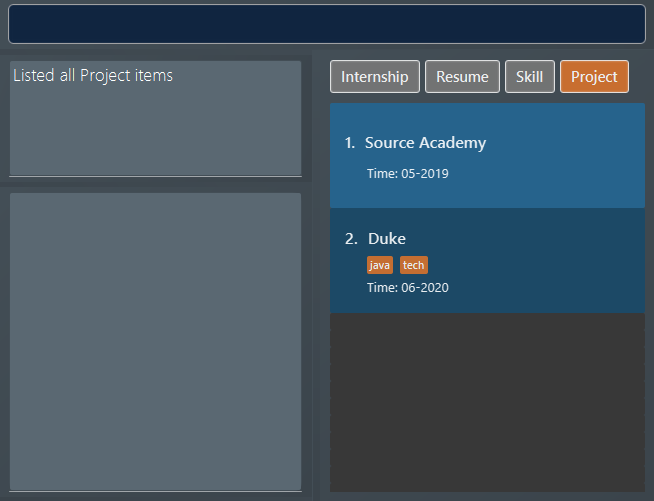
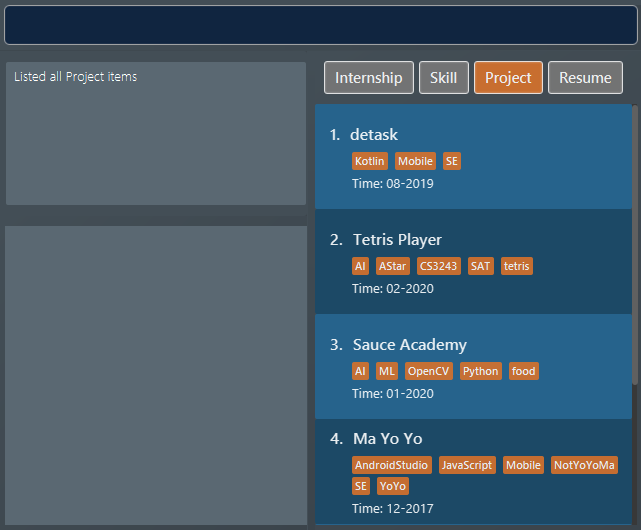
Rebuild pages at 7eada93f97175e81dc8780fcd634e7d2defcebf4

diff --git a/UserGuide.html b/UserGuide.html
@@ -748,7 +748,8 @@ These sentences, when exported to <code>.pdf</code> format, will be automaticall
 </tbody>
 </table>
 <div class="paragraph">
-<p><strong>Example 1:</strong> Try typing in the command box these two commands one by one!</p>
+<p><strong>Example 1:</strong>
+Try typing in the command box these two commands one by one!</p>
 </div>
 <div class="olist arabic">
 <ol class="arabic">
@@ -766,7 +767,7 @@ These sentences, when exported to <code>.pdf</code> format, will be automaticall
 <div class="olist arabic">
 <ol class="arabic">
 <li>
-<p>All <code>resume</code> items are listed in the list box.</p>
+<p>The first command lists all <code>resume</code> items in the list box. Assuming you want to edit the <code>resume</code> item at index 1.</p>
 <div class="imageblock">
 <div class="content">
 <img src="images/ListResume2.png" alt="ListResume2" width="790">
@@ -774,8 +775,7 @@ These sentences, when exported to <code>.pdf</code> format, will be automaticall
 </div>
 </li>
 <li>
-<p>The <code>resume</code> at index 1 has its name changed from <em>"Resume 2"</em> to <em>"Software Engineering Resume"</em> and its
-tag set to <em>"agile"</em>.</p>
+<p>The second command edits the <code>resume</code> item at index 1. It has its name changed from <em>"Winter 2019"</em> to <em>"Software Engineering Resume"</em> and its tag set to <em>"agile"</em>.</p>
 <div class="imageblock">
 <div class="content">
 <img src="images/EditResumeExample.png" alt="EditResumeExample" width="790">
@@ -803,10 +803,20 @@ tag set to <em>"agile"</em>.</p>
 <div class="olist arabic">
 <ol class="arabic">
 <li>
-<p>All <code>skill</code> items are listed in the list box.</p>
+<p>The first command lists all <code>skill</code> items in the list box. Assuming you want to edit the <code>skill</code> item at index 2.</p>
+<div class="imageblock">
+<div class="content">
+<img src="images/ListSkill1.png" alt="ListSkill1" width="790">
+</div>
+</div>
 </li>
 <li>
-<p>The <code>skill</code> at index 2 has its level changed to <code>ADVANCED</code> and all its existing tags cleared.</p>
+<p>The second command edits the <code>skill</code> item at index 2. It has its level changed to from <code>INTERMEDIATE</code> to <code>ADVANCED</code> and all its existing tags cleared.</p>
+<div class="imageblock">
+<div class="content">
+<img src="images/EditSkillExample.png" alt="EditSkillExample" width="790">
+</div>
+</div>
 </li>
 </ol>
 </div>
@@ -1172,7 +1182,7 @@ Certain details of specific items, for example the <code>website</code> and <cod
 <p><code>list i/ proj</code></p>
 </li>
 <li>
-<p><code>view 2 i/ proj</code></p>
+<p><code>view 1 i/ proj</code></p>
 </li>
 </ol>
 </div>
@@ -1182,7 +1192,7 @@ Certain details of specific items, for example the <code>website</code> and <cod
 <div class="olist arabic">
 <ol class="arabic">
 <li>
-<p>All <code>project</code> items are listed in the list box.</p>
+<p>The first command lists out all the <code>project</code> items in the list box. Assuming you want to view the details of the <code>project</code> item at index 1.</p>
 <div class="imageblock">
 <div class="content">
 <img src="images/ListProject2.png" alt="ListProject2" width="790">
@@ -1190,11 +1200,10 @@ Certain details of specific items, for example the <code>website</code> and <cod
 </div>
 </li>
 <li>
-<p>Full details of the <code>project</code> at index 2 are displayed in the view box. These includes details that were not shown
-in the list box, such as its website (<em>"abc.github.io"</em>) and its description (<em>"For a little module named CS2103T"</em>).</p>
+<p>The second command shows full details of the <code>project</code> at index 1, displayed in the view box. These includes details that were not shown in the list box, such as its website (<em>"github.com/zheng-code/detask"</em>) and its description (<em>"An all-in-one task managing app."</em>).</p>
 <div class="imageblock">
 <div class="content">
-<img src="images/ViewDukeProject.png" alt="ViewDukeProject" width="790">
+<img src="images/ViewDetaskProject.png" alt="ViewDetaskProject" width="790">
 </div>
 </div>
 </li>
@@ -2098,4 +2107,4 @@ file created with the data file of your <strong>ResuMe</strong> folder in the cu
 </table>
 </div>
 </div>
-</div></div><div id="footer"><div class="container"><div id="footer-text">Last updated 2020-04-13 08:34:06 UTC</div></div></div></body></html>
+</div></div><div id="footer"><div class="container"><div id="footer-text">Last updated 2020-04-13 09:11:43 UTC</div></div></div></body></html>

diff --git a/tutorials/RemovingFields.html b/tutorials/RemovingFields.html
@@ -175,4 +175,4 @@ While keeping the <code>address</code> field in the json files does not cause th
 <p>You can go through each individual <code>json</code> file and manually remove the <code>address</code> field.</p>
 </div>
 </div>
-</div></div><div id="footer"><div class="container"><div id="footer-text">Last updated 2020-04-13 08:34:06 UTC</div></div></div></body></html>
+</div></div><div id="footer"><div class="container"><div id="footer-text">Last updated 2020-04-13 09:11:43 UTC</div></div></div></body></html>

diff --git a/Testing.html b/Testing.html
@@ -90,4 +90,4 @@ e.g. <code>seedu.address.logic.LogicManagerTest</code></p>
 <div class="title">Figure 1. <code>Accessibility</code> permission is granted to <code>IntelliJ IDEA</code></div>
 </div>
 </div>
-</div></div><div id="footer"><div class="container"><div id="footer-text">Last updated 2020-04-13 08:34:06 UTC</div></div></div></body></html>
+</div></div><div id="footer"><div class="container"><div id="footer-text">Last updated 2020-04-13 09:11:43 UTC</div></div></div></body></html>

diff --git a/tutorials/AddRemark.html b/tutorials/AddRemark.html
@@ -616,4 +616,4 @@ In this case, <code>CommandTestUtil#assertCommandSuccess</code> is the best fit 
 <p>This concludes the tutorial for adding a new <code>Command</code> to AddressBook.</p>
 </div>
 </div>
-</div></div><div id="footer"><div class="container"><div id="footer-text">Last updated 2020-04-13 08:34:06 UTC</div></div></div></body></html>
+</div></div><div id="footer"><div class="container"><div id="footer-text">Last updated 2020-04-13 09:11:43 UTC</div></div></div></body></html>

diff --git a/team/johndoe.html b/team/johndoe.html
@@ -468,4 +468,4 @@ the old-versioned item to be stored as well so that it can be restored while <co
 <p><em>{Optionally, you may include other projects in your portfolio.}</em></p>
 </div>
 </div>
-</div></div><div id="footer"><div class="container"><div id="footer-text">Last updated 2020-04-13 08:34:06 UTC</div></div></div></body></html>
+</div></div><div id="footer"><div class="container"><div id="footer-text">Last updated 2020-04-13 09:11:43 UTC</div></div></div></body></html>

diff --git a/index.html b/index.html
@@ -56,4 +56,4 @@ in need of a clean and functional resume, whether for an internship or a job pos
 <div class="sectionbody">
 
 </div>
-</div></div><div id="footer"><div class="container"><div id="footer-text">Last updated 2020-04-13 08:34:06 UTC</div></div></div></body></html>
+</div></div><div id="footer"><div class="container"><div id="footer-text">Last updated 2020-04-13 09:11:43 UTC</div></div></div></body></html>

diff --git a/team/wardetu.html b/team/wardetu.html
@@ -380,4 +380,4 @@ Java. Once again, Java is removed from our life.</p>
 <p>include::../DeveloperGuide.adoc</p>
 </div>
 </div>
-</div></div><div id="footer"><div class="container"><div id="footer-text">Last updated 2020-04-13 08:34:06 UTC</div></div></div></body></html>
+</div></div><div id="footer"><div class="container"><div id="footer-text">Last updated 2020-04-13 09:11:43 UTC</div></div></div></body></html>

diff --git a/LearningOutcomes.html b/LearningOutcomes.html
@@ -474,4 +474,4 @@ of storages, but different number of storages (e.g. save to both a text file and
 </div>
 </div>
 </div>
-</div></div><div id="footer"><div class="container"><div id="footer-text">Last updated 2020-04-13 08:34:06 UTC</div></div></div></body></html>
+</div></div><div id="footer"><div class="container"><div id="footer-text">Last updated 2020-04-13 09:11:43 UTC</div></div></div></body></html>

diff --git a/SettingUp.html b/SettingUp.html
@@ -180,4 +180,4 @@ Having both Travis and AppVeyor ensures your App works on both Unix-based platfo
 </div>
 </div>
 </div>
-</div></div><div id="footer"><div class="container"><div id="footer-text">Last updated 2020-04-13 08:34:06 UTC</div></div></div></body></html>
+</div></div><div id="footer"><div class="container"><div id="footer-text">Last updated 2020-04-13 09:11:43 UTC</div></div></div></body></html>

diff --git a/team/chrisjwelly.html b/team/chrisjwelly.html
@@ -841,4 +841,4 @@ The lifeline for <code>DeleteCommandParser</code> should end at the destroy mark
 </div>
 </div>
 </div>
-</div></div><div id="footer"><div class="container"><div id="footer-text">Last updated 2020-04-13 08:34:06 UTC</div></div></div></body></html>
+</div></div><div id="footer"><div class="container"><div id="footer-text">Last updated 2020-04-13 09:11:43 UTC</div></div></div></body></html>

diff --git a/team/duongphammmm.html b/team/duongphammmm.html
@@ -772,4 +772,4 @@ extended features (e.g. allow user to choose from a variety of pre-defined resum
 </div>
 </div>
 </div>
-</div></div><div id="footer"><div class="container"><div id="footer-text">Last updated 2020-04-13 08:34:06 UTC</div></div></div></body></html>
+</div></div><div id="footer"><div class="container"><div id="footer-text">Last updated 2020-04-13 09:11:43 UTC</div></div></div></body></html>

diff --git a/UsingCoveralls.html b/UsingCoveralls.html
@@ -111,4 +111,4 @@ If you have not set up Travis CI, see <a href="UsingTravis.html">UsingTravis.ado
 </ol>
 </div>
 </div>
-</div></div><div id="footer"><div class="container"><div id="footer-text">Last updated 2020-04-13 08:34:06 UTC</div></div></div></body></html>
+</div></div><div id="footer"><div class="container"><div id="footer-text">Last updated 2020-04-13 09:11:43 UTC</div></div></div></body></html>
